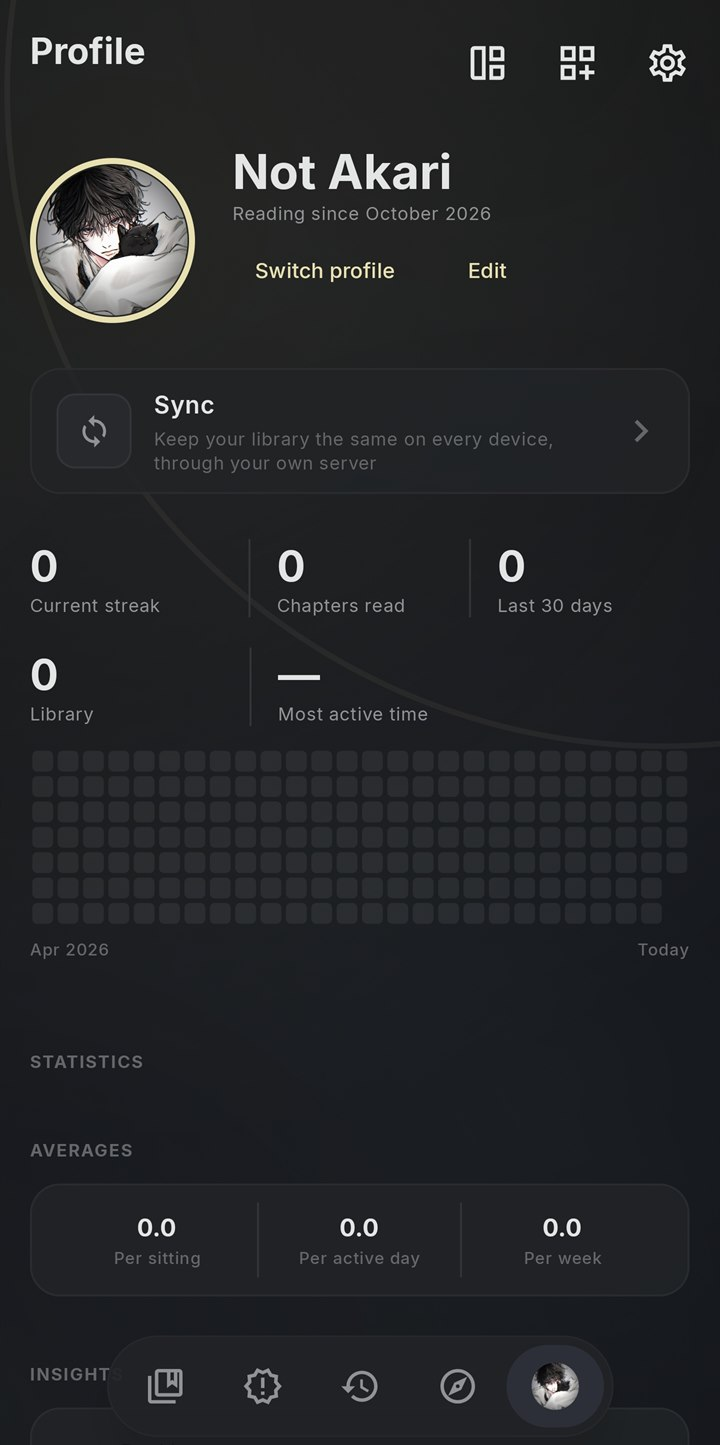
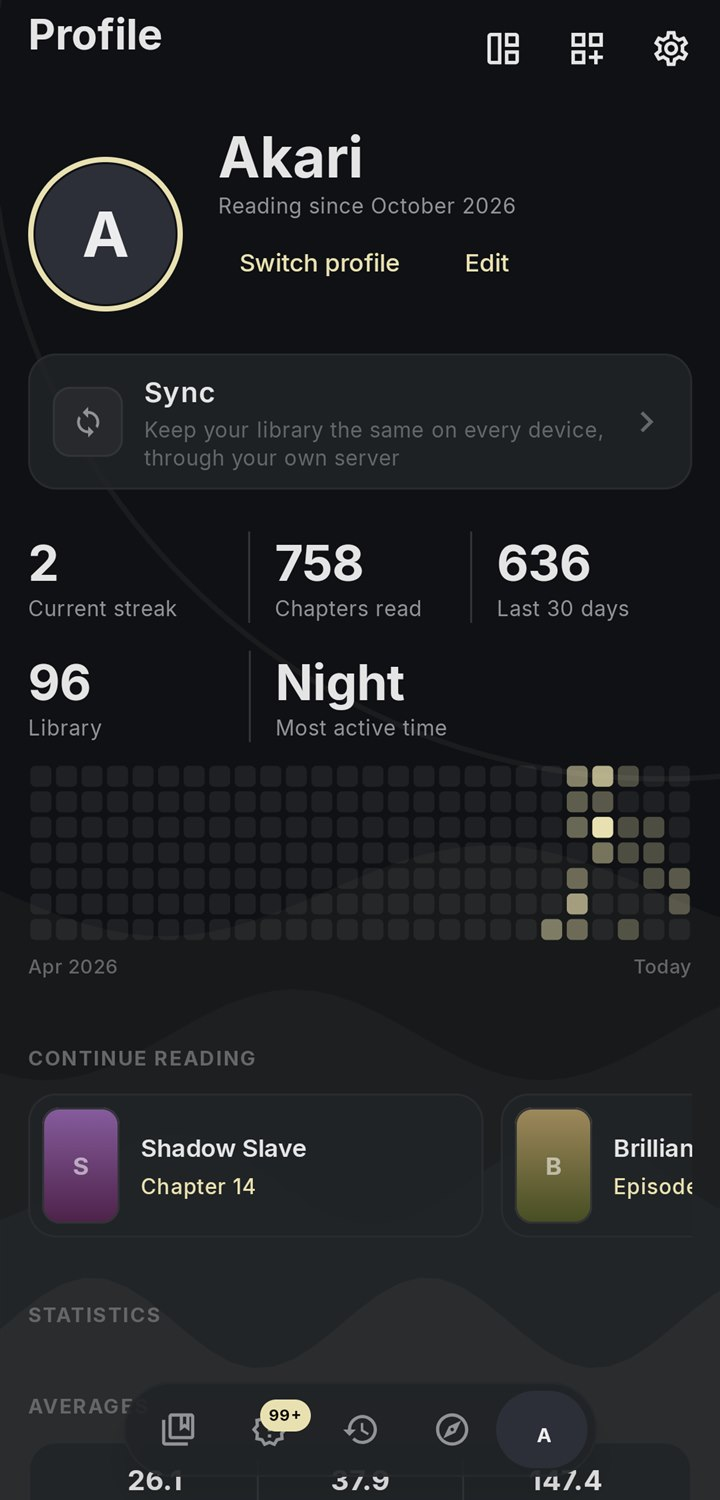
Show the real library in the theme preview, calm the phone title page opening, and update the README pictures

diff --git a/app/shared/src/commonMain/kotlin/com/sumizuri/app/feature/theme/ThemePreview.kt b/app/shared/src/commonMain/kotlin/com/sumizuri/app/feature/theme/ThemePreview.kt
@@ -7,6 +7,7 @@ import androidx.compose.foundation.layout.Box
 import androidx.compose.foundation.layout.BoxWithConstraints
 import androidx.compose.foundation.layout.Column
 import androidx.compose.foundation.layout.Row
+import androidx.compose.foundation.layout.Spacer
 import androidx.compose.foundation.layout.fillMaxWidth
 import androidx.compose.foundation.layout.height
 import androidx.compose.foundation.layout.heightIn
@@ -69,7 +70,7 @@ import com.sumizuri.app.ui.theme.background.ambientBackground
 import com.sumizuri.app.ui.theme.spec.AppThemeSpec
 import org.jetbrains.compose.resources.stringResource
 
-// Titles made up for the preview, with some read and some unread. A phone shows the first three and a desktop as many as its rows of covers hold.
+// Titles made up for the preview of an empty library, with some read and some unread. A phone shows the first three and a desktop as many as its rows of covers hold.
 private val Samples = listOf(
     Title(1, "Moonlit Garden", Kind.Manga, null, 3, Status.Ongoing, "", inLibrary = true, chapterCount = 20),
     Title(2, "Paper Lanterns", Kind.Manga, null, 8, Status.Ongoing, "", inLibrary = true, chapterCount = 24),
@@ -104,29 +105,33 @@ internal fun ThemePreview(
     desktop: Boolean,
     modifier: Modifier = Modifier,
     height: Dp = 0.dp,
+    titles: List<Title> = emptyList(),
 ) {
+    // The titles of the library when it has any, so the preview looks like the app as it is.
+    val shown = titles.ifEmpty { Samples }
     SumizuriTheme(if (dark) ThemeMode.Dark else ThemeMode.Light, spec) {
         if (desktop) {
             DesktopPage(
                 modifier.heightIn(min = height),
                 height,
+                shown,
             )
         } else {
-            PhonePage(modifier.heightIn(min = height))
+            PhonePage(modifier.heightIn(min = height), shown)
         }
     }
 }
 
 // The page as a phone has it: one column, with the floating bar at the bottom.
 @Composable
-private fun PhonePage(modifier: Modifier) {
+private fun PhonePage(modifier: Modifier, titles: List<Title>) {
     Column(
         modifier.ambientBackground().editTarget(EditorPart.App).padding(16.dp),
         verticalArrangement = Arrangement.spacedBy(14.dp),
     ) {
         Heading()
         Tabs()
-        Covers(Samples.take(3))
+        Covers(titles.take(3), 3)
         Row(Modifier.editTarget(EditorPart.Cards), verticalAlignment = Alignment.CenterVertically) { Sample() }
         Buttons()
         Controls()
@@ -137,7 +142,7 @@ private fun PhonePage(modifier: Modifier) {
 
 // The page as a desktop window has it: the tabs in a column down the side, a grid of covers with as many across and down as the window has room for, and the rows and controls beside a dialog.
 @Composable
-private fun DesktopPage(modifier: Modifier, height: Dp) {
+private fun DesktopPage(modifier: Modifier, height: Dp, titles: List<Title>) {
     val rail = MaterialTheme.colorScheme.surfaceContainer
     val aspect = LocalThemeSpec.current.options.covers.aspect.ratio
     // The column of tabs is painted behind the row, so it reaches the bottom of the page however tall the page is.
@@ -163,7 +168,7 @@ private fun DesktopPage(modifier: Modifier, height: Dp) {
             Column(verticalArrangement = Arrangement.spacedBy(16.dp)) {
                 Heading()
                 Tabs()
-                for (row in Samples.take(across * down).chunked(across)) Covers(row)
+                for (row in titles.take(across * down).chunked(across)) Covers(row, across)
                 Row(horizontalArrangement = Arrangement.spacedBy(16.dp)) {
                     Column(Modifier.weight(1f), verticalArrangement = Arrangement.spacedBy(14.dp)) {
                         Row(
@@ -190,17 +195,21 @@ private fun Heading() {
     )
 }
 
-// A row of covers, each read as far as its sample says. One that is read to the end has no bar.
+// A row of covers, each read as far as its title says, with empty room kept for missing ones so a short row does not stretch. One that is read to the end has no bar.
 @Composable
-private fun Covers(titles: List<Title>) {
+private fun Covers(titles: List<Title>, slots: Int) {
     Row(horizontalArrangement = Arrangement.spacedBy(12.dp)) {
         for (title in titles) {
-            Cover(
-                title,
-                (title.chapterCount - title.unread).toFloat() / title.chapterCount,
-                Modifier.weight(1f),
-            )
+            val done = if (title.chapterCount >
+                0
+            ) {
+                (title.chapterCount - title.unread).toFloat() / title.chapterCount
+            } else {
+                0f
+            }
+            Cover(title, done.coerceIn(0f, 1f), Modifier.weight(1f))
         }
+        repeat(slots - titles.size) { Spacer(Modifier.weight(1f)) }
     }
 }
 

diff --git a/app/shared/src/commonMain/kotlin/com/sumizuri/app/feature/title/layout/TitleCoverBehind.kt b/app/shared/src/commonMain/kotlin/com/sumizuri/app/feature/title/layout/TitleCoverBehind.kt
@@ -6,7 +6,7 @@ import androidx.compose.foundation.layout.BoxWithConstraints
 import androidx.compose.foundation.layout.fillMaxWidth
 import androidx.compose.foundation.layout.height
 import androidx.compose.runtime.Composable
-import androidx.compose.runtime.getValue
+import androidx.compose.runtime.remember
 import androidx.compose.ui.Modifier
 import androidx.compose.ui.draw.clipToBounds
 import androidx.compose.ui.graphics.Brush
@@ -15,10 +15,10 @@ import androidx.compose.ui.graphics.graphicsLayer
 import androidx.compose.ui.layout.ContentScale
 import androidx.compose.ui.unit.Dp
 import coil3.compose.AsyncImage
+import coil3.request.crossfade
 import com.sumizuri.app.data.model.Title
 import com.sumizuri.app.feature.title.rememberTitleFocus
 import com.sumizuri.app.ui.kit.cover.coverDrift
-import com.sumizuri.app.ui.kit.cover.coverFlightTo
 import com.sumizuri.app.ui.kit.cover.fadeOutBottom
 import com.sumizuri.app.ui.kit.cover.focus.focusAlignment
 import com.sumizuri.app.ui.kit.image.ImageFilter
@@ -27,13 +27,14 @@ import com.sumizuri.app.ui.kit.image.imageRequest
 // How much slower than the list the cover moves up as the page scrolls.
 private const val Lag = 0.4f
 
-// The cover at the full width of the phone behind the top of the page. It moves up slower than the list, and its lower part fades to clear so the list melts into the page.
+// The cover at the full width of the phone behind the top of the page. It moves up slower than the list, and its lower part fades to clear so the list melts into the page. No cover flies into it, since a tall poster cannot turn into a wide backdrop without a jump, so it settles from a little bigger as the page comes in.
 @Composable
 internal fun TitleCoverBehind(title: Title, height: Dp, picked: Pair<Float, Float>?, scroll: () -> Int) {
     val stand = Brush.verticalGradient(
         listOf(Color.hsv(title.hue, 0.42f, 0.62f), Color.hsv((title.hue + 28f) % 360f, 0.55f, 0.30f)),
     )
     val focus = rememberTitleFocus(title.coverUrl, picked)
+    val settle = rememberPageFade()
     BoxWithConstraints(
         Modifier
             .fillMaxWidth()
@@ -44,14 +45,26 @@ internal fun TitleCoverBehind(title: Title, height: Dp, picked: Pair<Float, Floa
     ) {
         val url = title.coverUrl
         if (!url.isNullOrBlank()) {
+            val request = imageRequest(url, sourceId = title.sourceId)
+            // The picture already read for the library shows at once while the bigger one is read, so the page never opens on a plain color.
+            val shown = remember(request) {
+                request
+                    .newBuilder()
+                    .placeholderMemoryCacheKey(request.memoryCacheKey ?: url)
+                    .crossfade(false)
+                    .build()
+            }
             AsyncImage(
-                model = imageRequest(url, sourceId = title.sourceId),
+                model = shown,
                 contentDescription = null,
                 modifier = Modifier
                     .matchParentSize()
-                    .coverFlightTo(title.id)
                     .clipToBounds()
-                    .coverDrift(),
+                    .graphicsLayer {
+                        val zoom = 1f + ArtZoom * (1f - settle.value)
+                        scaleX = zoom
+                        scaleY = zoom
+                    }.coverDrift(),
                 contentScale = ContentScale.Crop,
                 // The crop is centered on the spot picked or the face found in the cover, and falls back to the top.
                 alignment = focusAlignment(focus, maxWidth.value, height.value, fallbackY = -1f),

diff --git a/app/shared/src/commonMain/kotlin/com/sumizuri/app/feature/theme/PreviewTitles.kt b/app/shared/src/commonMain/kotlin/com/sumizuri/app/feature/theme/PreviewTitles.kt
@@ -1,0 +1,24 @@
+package com.sumizuri.app.feature.theme
+
+import androidx.compose.runtime.Composable
+import androidx.compose.runtime.remember
+import androidx.lifecycle.compose.collectAsStateWithLifecycle
+import com.sumizuri.app.data.LocalAppContainer
+import com.sumizuri.app.data.model.Title
+import com.sumizuri.app.data.model.library.LibrarySortField
+import kotlinx.coroutines.flow.map
+
+// The most titles the preview shows, which fills the biggest grid of the desktop preview.
+private const val Most = 24
+
+// The titles of the library read most lately, so the preview shows the app as the person has it. Empty while it loads and when the library is empty.
+@Composable
+internal fun rememberPreviewTitles(): List<Title> {
+    val library = LocalAppContainer.current.library
+    val titles = remember(library) {
+        library.entries(setOf(LibrarySortField.LastRead)).map { all ->
+            all.sortedByDescending { it.lastRead }.take(Most).map { it.title }
+        }
+    }
+    return titles.collectAsStateWithLifecycle(emptyList()).value
+}

diff --git a/app/shared/src/commonMain/kotlin/com/sumizuri/app/feature/theme/ThemeEditorRoute.kt b/app/shared/src/commonMain/kotlin/com/sumizuri/app/feature/theme/ThemeEditorRoute.kt
@@ -210,6 +210,7 @@ private fun EditorLayout(state: ThemeEditorState, onClose: () -> Unit, onSave: (
 private fun PreviewPane(state: ThemeEditorState, desktop: Boolean, modifier: Modifier) {
     val selection = EditorSelection(state.focus, state.reveal, state::select)
     val frame = RoundedCornerShape(20.dp)
+    val titles = rememberPreviewTitles()
     CompositionLocalProvider(LocalEditorSelection provides selection) {
         BoxWithConstraints(modifier) {
             val height = maxHeight - 24.dp
@@ -232,6 +233,7 @@ private fun PreviewPane(state: ThemeEditorState, desktop: Boolean, modifier: Mod
                         }
                         ).shadow(8.dp, frame).clip(frame),
                     height,
+                    titles,
                 )
             }
         }

diff --git a/README.md b/README.md
@@ -21,9 +21,10 @@ Sumizuri is one app for the things you read and watch. Open files from your devi
 > Sumizuri comes with no content and lists no sources by default. You choose what to add, and you are responsible for it.
 
 <p align="center">
-  <img src=".github/readme/screenshot-profile.jpg" alt="The profile page" width="32%">
-  &nbsp;
-  <img src=".github/readme/screenshot-settings.jpg" alt="The settings page" width="32%">
+  <img src=".github/readme/screenshot-library.jpg" alt="The library" width="24%">
+  <img src=".github/readme/screenshot-profile.jpg" alt="The profile page" width="24%">
+  <img src=".github/readme/screenshot-theme-editor.jpg" alt="The theme editor" width="24%">
+  <img src=".github/readme/screenshot-settings.jpg" alt="The settings page" width="24%">
 </p>
 
 ## Features
